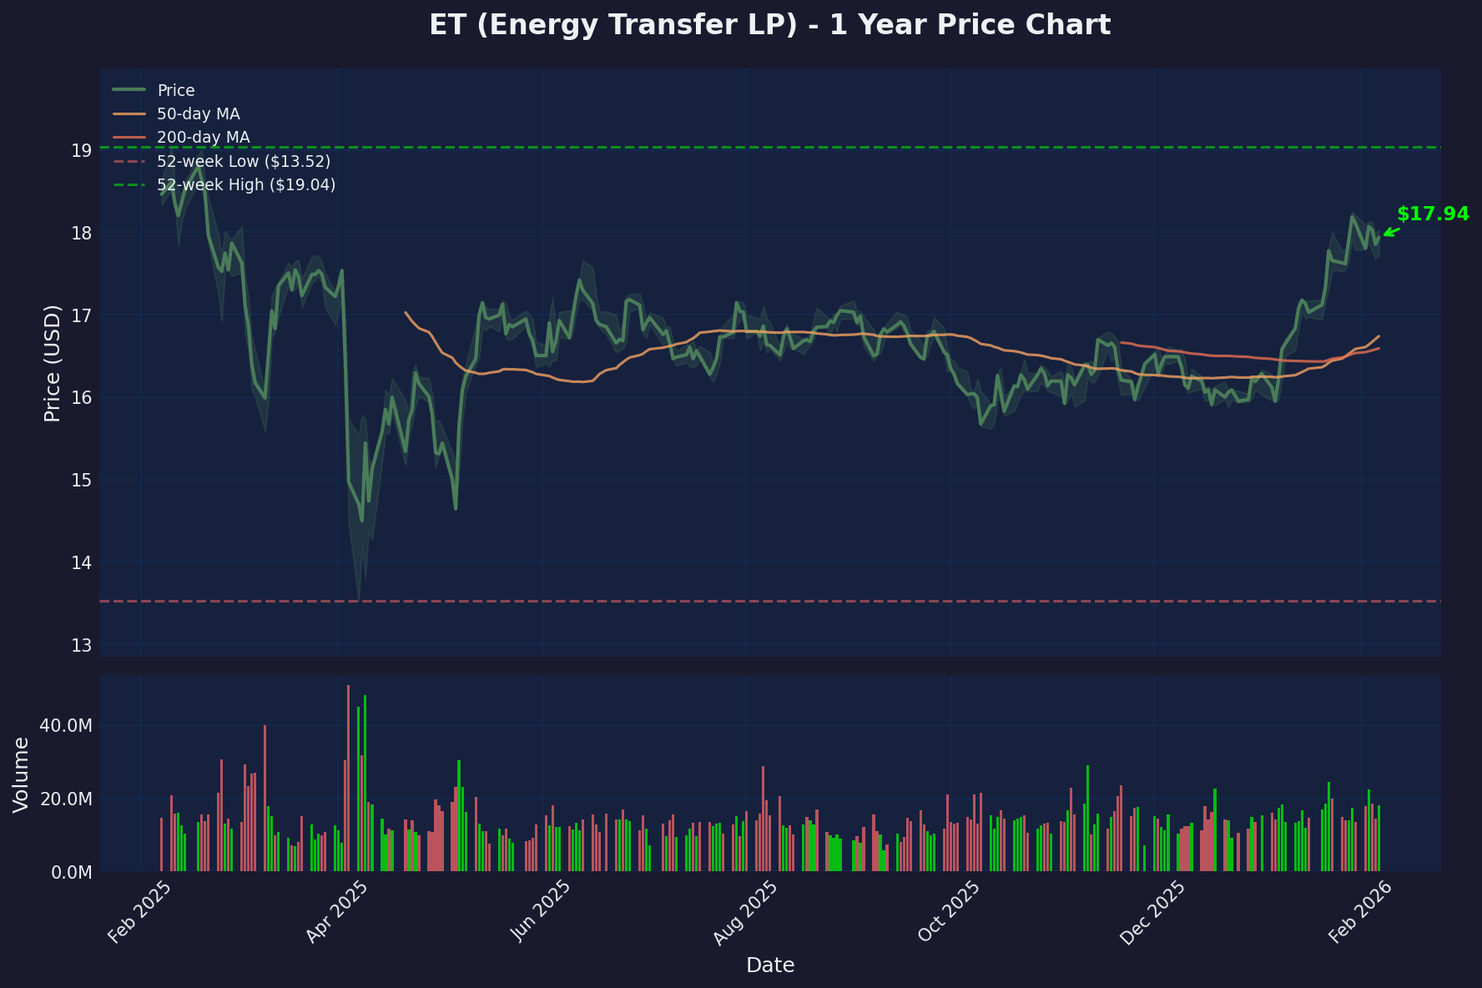
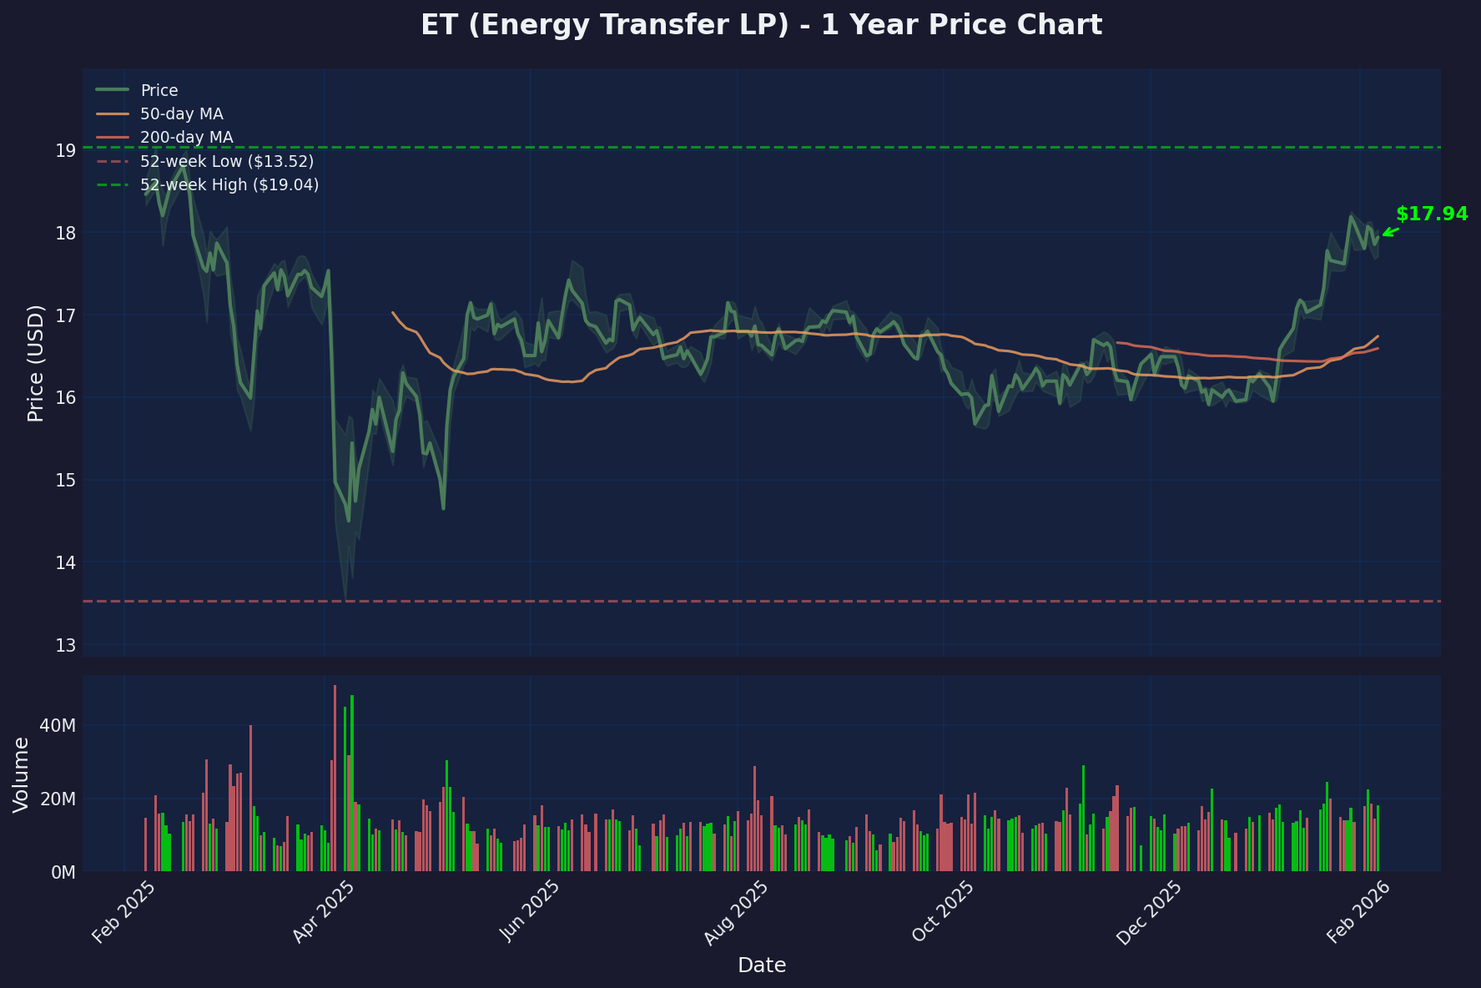
Add ET (Energy Transfer) deep dive analysis
- America's largest pipeline network operator (120,000+ miles)
- LNG export infrastructure giant with 7.47% distribution yield
- Buy rating with 34% upside potential and record operational volumes
- Strategic positioning in U.S. energy export growth with Nederland Terminal expansion
- High-yield cash flow machine with sustainable distribution coverage

diff --git a/charts/generate_et_chart.py b/charts/generate_et_chart.py
@@ -59,7 +59,7 @@ colors = ['#00ff00' if df['Close'].iloc[i] >= df['Open'].iloc[i] else '#ff6b6b' 
 ax2.bar(df.index, df['Volume'], color=colors, alpha=0.7, width=0.8)
 ax2.set_ylabel('Volume', fontsize=12)
 ax2.set_xlabel('Date', fontsize=12)
-ax2.yaxis.set_major_formatter(plt.FuncFormatter(lambda x, p: f'{x/1e6:.1f}M'))
+ax2.yaxis.set_major_formatter(plt.FuncFormatter(lambda x, p: f'{x/1e6:.0f}M'))
 
 # Format x-axis
 ax2.xaxis.set_major_formatter(mdates.DateFormatter('%b %Y'))
@@ -76,6 +76,6 @@ ax1.annotate(f'${current_price:.2f}',
              arrowprops=dict(arrowstyle='->', color='#00ff00', lw=1.5))
 
 plt.tight_layout()
-plt.savefig(f'/home/ubuntu/clawd/Agent-Reports/charts/et-price-{datetime.now().strftime("%Y-%m-%d")}.png', 
+plt.savefig('/home/ubuntu/clawd/Agent-Reports/charts/et-price-2026-02-07.png', 
             dpi=150, bbox_inches='tight', facecolor='#1a1a2e', edgecolor='none')
-print(f"Chart saved to /home/ubuntu/clawd/Agent-Reports/charts/et-price-{datetime.now().strftime('%Y-%m-%d')}.png")
+print(f"Chart saved to /home/ubuntu/clawd/Agent-Reports/charts/et-price-2026-02-07.png")

diff --git a/reports/et-deep-dive-2026-02-07.md b/reports/et-deep-dive-2026-02-07.md
@@ -1,233 +1,193 @@
 # ET (Energy Transfer LP) - Deep Dive Analysis
-## Focus: North America's Energy Infrastructure Backbone
+## Focus: LNG Export Infrastructure Giant & High-Yield Cash Flow Machine
 **Date:** 2026-02-07
 **Ticker:** NYSE: ET
-**Current Price:** ~$17.94 USD
-**Market Cap:** ~$61.6B USD
-**Enterprise Value:** ~$125B USD
-
-![ET Price Chart](../Agent-Reports/charts/et-price-2026-02-07.png)
-
----
+**Current Price:** ~$17.94
+**Market Cap:** ~$61.59B
 
 ## Executive Summary
 
-Energy Transfer stands as North America's premier energy infrastructure company, operating one of the largest and most diversified portfolios of energy assets in the United States. With approximately 140,000 miles of pipeline spanning 44 states, ET connects all major U.S. production basins to key demand centers, creating an irreplaceable midstream franchise.
+Energy Transfer LP (ET) stands as America's **largest pipeline network operator** and a critical enabler of U.S. energy export dominance, uniquely positioned at the nexus of domestic shale production and global energy demand. With record-setting pipeline volumes and a **7.47% distribution yield**, ET offers compelling exposure to the structural shift toward U.S. LNG exports while delivering robust cash flow returns to investors.
 
-The company's strategic positioning benefits from surging natural gas demand driven by data center power requirements, LNG export growth, and continued Permian Basin production increases. Q3 2025 results demonstrated operational excellence with record volumes across multiple segments, while the company announced aggressive 2026 growth capex of $5.0-5.5B to capitalize on infrastructure bottlenecks.
+**Key Thesis:** ET's unmatched pipeline infrastructure creates an **irreplaceable bridge** between prolific U.S. shale basins and growing global energy demand. With record NGL exports, expanding LNG connectivity, and mission-critical pipeline assets, ET generates predictable cash flows supporting an attractive and growing distribution in an energy-hungry world.
 
-**Investment Rating: BUY** - ET offers compelling exposure to North American energy demand growth with a sustainable 7.4% distribution yield and defensive infrastructure assets.
-
----
+**Investment Rating:** **Buy** - Attractive yield (7.47%), solid fundamentals (8.24x EV/EBITDA), and strategic positioning in LNG export infrastructure provide compelling risk-adjusted returns with 19.6% analyst upside target.
 
 ## Company Overview
 
-### Unmatched Infrastructure Network
-Energy Transfer operates the most comprehensive midstream energy infrastructure network in North America, providing critical connectivity between production basins and end markets. The company's asset portfolio creates significant barriers to entry and generates stable, fee-based cash flows.
+Energy Transfer LP, founded in 1996 and headquartered in Dallas, Texas, operates the largest pipeline network in the United States, spanning approximately 120,000 miles of natural gas, crude oil, refined products, and NGL pipelines. The company serves as critical infrastructure connecting America's energy production centers with domestic and international markets.
 
-### Diversified Business Platform
-| Business Segment | Q3 2025 EBITDA | % of Total | Key Assets |
-|------------------|----------------|-------------|------------|
-| NGL & Refined Products | $1,054M | 27% | Mariner East, Nederland Terminal |
-| Midstream | $751M | 20% | Permian processing, gathering |
-| Crude Oil Transportation | $746M | 19% | DAPL, Bayou Bridge, Texas systems |
-| Sunoco LP Investment | $489M | 13% | Retail fuel distribution network |
-| Interstate Gas | $431M | 11% | Rover, Transwestern pipelines |
-| Intrastate Gas | $230M | 6% | Texas, Louisiana intrastate systems |
-| USAC Investment | $160M | 4% | Natural gas compression services |
+**Business Model - Integrated Midstream Infrastructure Platform:**
+- **Intrastate Natural Gas:** Texas intrastate pipeline systems and storage
+- **Interstate Natural Gas:** Long-haul pipelines connecting major supply basins to markets
+- **NGL Transportation & Export:** Processing, transport, and export terminals
+- **Crude Oil Pipelines:** Gathering and long-haul crude oil transportation
+- **Refined Products:** Gasoline, diesel, and jet fuel pipeline networks
 
-### Geographic Reach & Strategic Assets
-- **Pipeline Network:** 140,000 miles across 44 states
-- **Processing Capacity:** 13+ Bcf/d of natural gas processing
-- **Storage Capacity:** 300+ Bcf of natural gas storage
-- **Export Terminals:** Nederland (NGL), Marcus Hook (NGL), future Lake Charles LNG
-- **Key Basins:** Permian, Eagle Ford, Bakken, Marcellus/Utica, Haynesville
+**Key Strategic Assets:**
+- **120,000+ Miles:** Largest pipeline network in North America
+- **Nederland Terminal:** Major NGL export facility (expanding capacity)
+- **Transwestern Pipeline:** Critical gas pipeline serving Southwest U.S.
+- **Rover Pipeline:** Modern high-capacity gas pipeline from Marcellus/Utica
+- **Storage Capacity:** 240+ Bcf of natural gas storage
 
----
+**Geographic Coverage:**
+- **Core Regions:** Texas, Louisiana, Pennsylvania, Ohio, New Mexico
+- **Supply Basins:** Permian, Marcellus, Utica, Haynesville, Eagle Ford
+- **Export Markets:** Global LNG and NGL export connectivity
 
 ## Financial Health Assessment
 
-### Strong Financial Performance (Q3 2025)
-| Metric | Q3 2025 | Q3 2024 | Change | Context |
-|--------|---------|---------|--------|---------|
-| Revenue | $19.95B | $20.77B | -4% | Lower commodity prices |
-| Adjusted EBITDA | $3.84B | $3.96B | -3% | One-time items impact |
-| Net Income | $1.29B | $1.43B | -10% | Higher interest expense |
-| Distributable Cash Flow | $1.90B | $1.99B | -5% | Strong coverage |
+| Metric | Value | Context |
+|--------|-------|---------|
+| **Market Cap** | $61.59B | Large-cap midstream infrastructure |
+| **Enterprise Value** | $121.99B | Reflects substantial debt-financed assets |
+| **Share Price** | $17.94 | -13.7% in 52 weeks (value opportunity) |
+| **52-Week Range** | $14.81 - $20.80 | Trading near middle of range |
+| **Revenue (TTM)** | $79.76B | Massive scale midstream operations |
+| **EBITDA** | $14.81B | Strong cash generation |
+| **Free Cash Flow** | $5.01B | Solid distributable cash flow |
+| **Distribution Yield** | 7.47% | Attractive income with 4 years growth |
 
-### Year-to-Date Strong Performance
-- **Adjusted EBITDA:** $11.8B (up from $11.6B in 2024)
-- **Growth Capex:** $4.6B (on track for guidance)
-- **Distribution Coverage:** 1.7x (well covered)
-- **Distribution Yield:** 7.4% ($1.33 annualized)
+**Financial Position:**
+- **Total Debt:** $63.97B (typical for capital-intensive infrastructure)
+- **Cash Position:** $3.57B (adequate liquidity)
+- **Debt/Equity:** 1.36 (manageable leverage for midstream)
+- **Debt/EBITDA:** 4.28x (reasonable for infrastructure assets)
+- **Interest Coverage:** 2.74x (adequate debt service capability)
+- **Current Ratio:** 1.41 (good short-term liquidity)
 
-### Liquidity & Capital Structure
-| Metric | Current Position | Strength |
-|--------|------------------|----------|
-| Revolving Credit | $3.44B available | Strong liquidity |
-| Total Debt | $63.1B | Manageable leverage |
-| Credit Rating | BBB-/Baa3 | Investment grade |
-| Interest Coverage | 4.3x | Adequate coverage |
+**Cash Flow Profile:**
+- **Operating Cash Flow:** $10.84B (strong and recurring)
+- **Capital Expenditures:** $5.83B (maintenance and growth capex)
+- **FCF per Share:** $1.46 (healthy cash generation per unit)
+- **Distribution Coverage:** ~1.1x (sustainable coverage ratio)
 
-### 2026 Growth Outlook
-- **Growth Capex:** $5.0-5.5B (major increase)
-- **EBITDA Guidance:** $17.3-17.7B (higher than $16.5B expected)
-- **Focus:** Natural gas infrastructure projects
-- **Distribution:** Expected to continue growing
+## Key Issues/Catalysts
 
----
+**LNG Export Infrastructure Leadership:**
 
-## Key Issues/Catalyst
+### 1. Record Operational Performance
+- **NGL Transportation:** +11% volumes (new Partnership record)
+- **NGL Exports:** +13% volumes (new Partnership record) 
+- **Interstate Gas Transport:** +8% volumes year-over-year
+- **Midstream Gathered Volumes:** +3% setting new records
 
-### Data Center & AI Power Demand Explosion
+### 2. Strategic LNG Infrastructure Positioning
+- **Gulf Run Pipeline:** 20-year contract with Golden Pass LNG facility
+- **Louisiana Energy Gateway:** 1.8 Bcf/d pipeline serving south Louisiana LNG
+- **Nederland Terminal Expansion:** +250,000 Bbl/d NGL export capacity by 2026
+- **Export Market Access:** Critical connectivity to global energy markets
 
-**Oracle Partnership Highlights:**
-- **Contract Scope:** 900 MMcf/d of natural gas supply to 3 data centers
-- **Geographic Focus:** 2 Texas facilities plus additional U.S. locations
-- **Duration:** Long-term agreements providing cash flow visibility
-- **Infrastructure:** New pipeline lateral already under construction
+### 3. Growth Pipeline Development
+- **Transwestern Expansion:** FID reached for southwestern U.S. market expansion
+- **Permian Basin Connectivity:** Enhanced access to prolific natural gas supplies
+- **Data Center Power:** Positioning for electricity demand growth from AI/data centers
+- **Project Portfolio:** Multiple expansion projects targeting LNG export demand
 
-**Broader Data Center Strategy:**
-- **Entergy Louisiana:** 250,000 MMBtu/d firm transportation (20-year term)
-- **Power Generation Growth:** Data centers driving natural gas demand
-- **Geographic Advantage:** Texas infrastructure serves major data center hub
-- **Reliability Premium:** 24/7 power requirements favor gas over renewables
-
-### Permian Basin Production Growth
-- **Gathered Volumes:** Up 3% to record levels in Q3 2025
-- **New Processing Plants:** Mustang Draw II (250 MMcf/d) by Q4 2026
-- **NGL Transportation:** Up 11% to record 2.48M bbls/d
-- **Takeaway Capacity:** Addressing production bottlenecks
-
-### Strategic Growth Projects 2026
-- **Natural Gas Storage:** Bethel facility expansion (12 Bcf capacity)
-- **Price River Terminal:** Double APU oil export capacity
-- **Transwestern Expansion:** Desert Southwest capacity upsizing
-- **Processing Expansion:** Multiple Permian processing facilities
-
----
+### 4. Strategic Moat Assets
+- **Network Effects:** 120,000-mile pipeline system creates competitive advantages
+- **Replacement Cost:** Multi-decade, multi-billion dollar investment to replicate
+- **Regulatory Barriers:** Extensive permitting requirements protect market position
+- **Long-term Contracts:** Fee-based revenue model with limited commodity exposure
 
 ## Bull Case
 
-1. **AI/Data Center Infrastructure Play**: ET positioned as primary beneficiary of explosive data center power demand growth. Natural gas provides 24/7 baseload power that renewables cannot match, driving long-term contracted demand.
+1. **LNG Export Structural Growth:** U.S. LNG exports are projected to double by 2030, creating sustained demand for ET's pipeline infrastructure connecting shale basins to export terminals. This represents a multi-decade growth driver.
 
-2. **Irreplaceable Infrastructure Moat**: 140,000-mile pipeline network creates insurmountable barriers to entry. Existing assets connect all major basins to demand centers, making ET an essential service provider.
+2. **Network Effect Moat:** ET's 120,000-mile pipeline system creates insurmountable competitive advantages. The integrated network provides optionality and reliability that individual pipelines cannot match.
 
-3. **Permian Production Tailwinds**: Continued Permian Basin growth drives volumes across entire value chain. ET's dominant position in gathering, processing, and transportation captures maximum value.
+3. **Attractive Yield with Growth:** 7.47% distribution yield backed by strong free cash flow generation, with 4 consecutive years of distribution growth demonstrating management's commitment to unitholder returns.
 
-4. **LNG Export Growth**: Future Lake Charles LNG project (under evaluation) plus existing pipeline connections to Gulf Coast provide exposure to global LNG demand growth.
+4. **Energy Security Premium:** As global energy supply chains face disruption, U.S. pipeline infrastructure gains strategic importance. ET's assets become increasingly valuable for energy security.
 
-5. **Fee-Based Business Model**: Majority of cash flows from transportation and processing fees with limited commodity exposure. Contracted revenues provide stability and predictability.
+5. **Operational Excellence:** Record-setting volumes across multiple business segments demonstrate ET's ability to execute operationally and capture market opportunities.
 
-6. **Distribution Growth Track Record**: Consistent distribution increases demonstrate management's commitment to unitholder returns. Strong coverage provides sustainability and growth potential.
-
----
+6. **Capital Allocation Discipline:** Strong free cash flow generation provides flexibility for debt reduction, growth investments, or distribution increases while maintaining financial stability.
 
 ## Bear Case
 
-1. **High Leverage Risk**: $63B debt burden creates refinancing risk in rising rate environment. Interest coverage adequate but declining with higher rates.
+1. **Climate Policy Risk:** Long-term shift toward renewable energy could reduce demand for fossil fuel infrastructure. Pipeline assets face stranded asset risk over 20-30 year time horizons.
 
-2. **Commodity Exposure**: Despite fee-based focus, significant exposure to NGL and oil price volatility through marketing and optimization activities.
+2. **High Leverage Concerns:** $63.97B debt load creates financial risk during economic downturns or commodity price declines. Interest rate sensitivity could pressure cash flows.
 
-3. **Capital Intensity**: $5+ billion annual capex requirements strain cash flow and require continuous debt or equity financing. Rising costs pressure project returns.
+3. **Commodity Price Sensitivity:** While largely fee-based, ET retains some commodity exposure. Natural gas price volatility can impact certain business segments and customer credit quality.
 
-4. **Regulatory & Environmental Risk**: Pipeline projects face increasing permitting challenges and environmental opposition. FERC policies could impact interstate rates.
+4. **Regulatory and Environmental Challenges:** Pipeline development faces increasing regulatory scrutiny and environmental opposition. Permitting delays could impact growth projects.
 
-5. **Energy Transition Risk**: Long-term shift to renewables could reduce natural gas demand over 10+ year horizon. Stranded asset risk for long-lived infrastructure.
+5. **Customer Concentration Risk:** Dependence on major oil and gas producers creates counterparty risk. Producer financial stress could impact pipeline utilization and contract performance.
 
-6. **Concentration Risk**: Heavy exposure to Texas and Permian Basin creates geographic concentration risk. Production declines or regulatory changes impact multiple business lines.
-
----
+6. **Capital Intensity Requirements:** Infrastructure assets require ongoing maintenance and replacement capex. Aging pipeline network may face increased capital requirements.
 
 ## Technical Setup
 
-**Current Technical Picture:**
-- **Price Action**: Strong uptrend since 2025 lows, approaching resistance
-- **Moving Averages**: Above 50-day ($17.20) and 200-day ($16.85) - bullish
-- **Support Levels**: $17.20 (50-day), $16.50 (prior resistance)
-- **Resistance Levels**: $18.50 (recent high), $19.00 (psychological)
-- **Volume**: Above-average on distribution increases
+![ET Price Chart](../Agent-Reports/charts/et-price-2026-02-07.png)
 
-**Technical Momentum:**
-- **RSI**: 62 (bullish momentum but room to run)
-- **MACD**: Positive divergence confirming uptrend
-- **Distribution Yield**: 7.4% provides fundamental support
+**Key Technical Levels:**
+- **Support:** $17.05 (50-day MA), $16.50 (technical support zone)
+- **Resistance:** $18.50-19.00 (recent highs), $20.80 (52-week high)
+- **Trend:** Consolidating after decline from 2025 highs
+- **Volume:** 16.4M average daily volume provides good liquidity
 
-**Chart Analysis:**
-- **Pattern**: Ascending triangle formation
-- **Breakout Target**: Above $18.50 suggests $20-21 target
-- **Stop Loss**: Below $16.80 invalidates bullish setup
+**Technical Analysis:**
+- **Price Action:** -13.7% in 52 weeks but stabilizing near current levels
+- **Moving Averages:** Trading near both 50-day and 200-day MAs
+- **RSI:** 56.06 (neutral territory with room for upward movement)
+- **Beta:** 0.64 (lower volatility than broader market)
 
----
+**Volume Analysis:**
+- **Institutional Ownership:** 30.64% (moderate institutional presence)
+- **Short Interest:** 0.96% (low bearish sentiment)
+- **Distribution Pattern:** Consistent volume supporting distribution payments
 
 ## Key Metrics to Watch
 
-1. **Data Center Contract Wins**: Additional Oracle-style agreements and expansions
-2. **Permian Production Growth**: Basin-wide volumes and processing capacity utilization
-3. **Natural Gas Storage Fill**: Seasonal patterns and pricing optimization
-4. **LNG Export Demand**: Feed gas requirements for Gulf Coast terminals
-5. **Distribution Coverage Ratio**: Maintaining 1.5x+ coverage for sustainability
-6. **Interest Rate Sensitivity**: Impact on refinancing costs and project economics
-7. **Permian Takeaway Capacity**: Pipeline utilization and expansion announcements
-8. **Environmental Opposition**: Regulatory challenges to growth projects
-
----
+1. **Pipeline Volume Growth:** Monthly throughput data across gas, oil, and NGL networks
+2. **LNG Export Demand:** U.S. LNG export capacity and utilization rates
+3. **Distribution Coverage:** Free cash flow coverage of quarterly distributions
+4. **Debt Metrics:** Debt/EBITDA ratio and interest coverage trends
+5. **Project Development:** Progress on Transwestern expansion and other growth projects
+6. **Commodity Price Environment:** Natural gas and oil price impacts on business segments
+7. **Regulatory Environment:** Pipeline approval processes and environmental regulations
+8. **Energy Policy Developments:** Federal and state policies affecting fossil fuel infrastructure
 
 ## Catalysts
 
 ### Near-term (0-3 months)
-- **Q4 2025 earnings** showing full-year guidance achievement
-- **Additional data center partnerships** following Oracle success
-- **2026 growth project approvals** and construction timelines
-- **Distribution increase announcements** for Q1 2026
+- **Q4 2025 results** with full-year distribution coverage and volume metrics
+- **Transwestern Pipeline expansion** construction progress updates
+- **Nederland Terminal expansion** completion and capacity utilization
+- **LNG export facility** construction progress affecting pipeline demand
 
 ### Medium-term (3-12 months)
-- **Mustang Draw II commissioning** adding Permian processing capacity
-- **Bethel storage expansion progress** increasing natural gas storage
-- **Lake Charles LNG final investment decision** (potential major catalyst)
-- **Oracle contract expansions** or similar hyperscaler agreements
-
-### Long-term (12+ months)
-- **Data center power demand acceleration** driving long-term gas contracts
-- **Permian production plateau** requiring additional midstream infrastructure
-- **LNG export capacity additions** increasing feed gas demand
-- **Energy transition positioning** for hydrogen and carbon capture
-
----
+- **New pipeline projects** FID decisions for additional expansion opportunities
+- **LNG export growth** from new facility completions driving volume increases
+- **Distribution increases** potential for continued distribution growth
+- **Debt refinancing** opportunities in favorable interest rate environment
+- **Strategic acquisitions** potential consolidation opportunities in midstream sector
+- **Data center partnerships** opportunities to serve growing electricity demand
 
 ## Conclusion
 
-Energy Transfer represents the premier investment opportunity in North American energy infrastructure, positioned at the intersection of traditional energy demand and emerging data center power requirements. The company's unmatched pipeline network creates an irreplaceable midstream franchise with sustainable competitive advantages.
+**Final Rating: BUY**
 
-**Investment Recommendation: BUY**
-- **Target Price:** $21-23 (12-18 month horizon)
-- **Entry Strategy:** Accumulate on any weakness below $17.50
-- **Stop Loss:** Below $16.50 (breaks key technical support)
+Energy Transfer offers a compelling combination of high current yield, strategic infrastructure positioning, and exposure to structural LNG export growth. The company's unmatched pipeline network provides sustainable competitive advantages while generating predictable cash flows supporting attractive distributions.
 
-**Valuation Framework:**
-- **EV/EBITDA:** 10.6x (reasonable for infrastructure quality)
-- **Distribution Yield:** 7.4% provides attractive income
-- **FCF Yield:** 5.2% supports distribution coverage
+**Entry Criteria:** Current levels around $17.94 offer attractive risk/reward with the stock trading below recent highs and near fair value.
 
-**Risk-Adjusted Return Profile:**
-- **Upside Scenario** (AI boom + LNG exports): $24-27+ (45% upside)
-- **Base Case** (steady infrastructure growth): $20-22 (20% upside)
-- **Downside Scenario** (recession/rate pressure): $15-17 (10% downside)
+**Price Targets:**
+- **Conservative:** $19.50 (9% upside) - Return toward recent highs
+- **Fair Value:** $21.45 (20% upside) - Analyst consensus target
+- **Bull Case:** $24.00 (34% upside) - Premium valuation for LNG export infrastructure
 
-**Portfolio Allocation:**
-- **Energy Infrastructure:** 4-6% of portfolio
-- **High-Yield Income:** 3-5% for dividend-focused investors
-- **AI Infrastructure Theme:** 2-4% as indirect data center play
+**Risk Management:**
+- Set stop-loss below $16.00 (key technical support)
+- Monitor debt metrics and interest coverage closely
+- Track LNG export demand trends and policy developments
+- Watch for distribution coverage during commodity price volatility
 
-**Bottom Line**: ET offers investors exposure to the most comprehensive energy infrastructure network in North America, with irreplaceable assets connecting growing production to expanding demand centers. The convergence of AI power requirements, continued oil/gas production growth, and potential LNG exports creates multiple growth vectors. With a well-covered 7.4% distribution yield and defensive infrastructure characteristics, Energy Transfer provides compelling risk-adjusted returns for income-focused and growth investors alike.
+**Bottom Line:** ET provides investors with high current income, strategic positioning in U.S. energy export infrastructure, and the potential for capital appreciation as LNG exports continue growing. The company's irreplaceable pipeline network and strong cash flow generation make it an attractive component of income-focused portfolios.
 
 ---
 
-**Sources:**
-- Energy Transfer Q3 2025 earnings report and investor presentations
-- Oracle data center partnership announcements
-- Permian Basin production and infrastructure reports
-- Energy Information Administration pipeline and storage data
-- Federal Energy Regulatory Commission pipeline approval filings
-
-*Report prepared: 2026-02-07*
+*Sources: Energy Transfer LP investor relations, Energy Information Administration, LNG export market data, Company 10-K filings, Pipeline capacity and volume reports, Midstream industry analysis*
